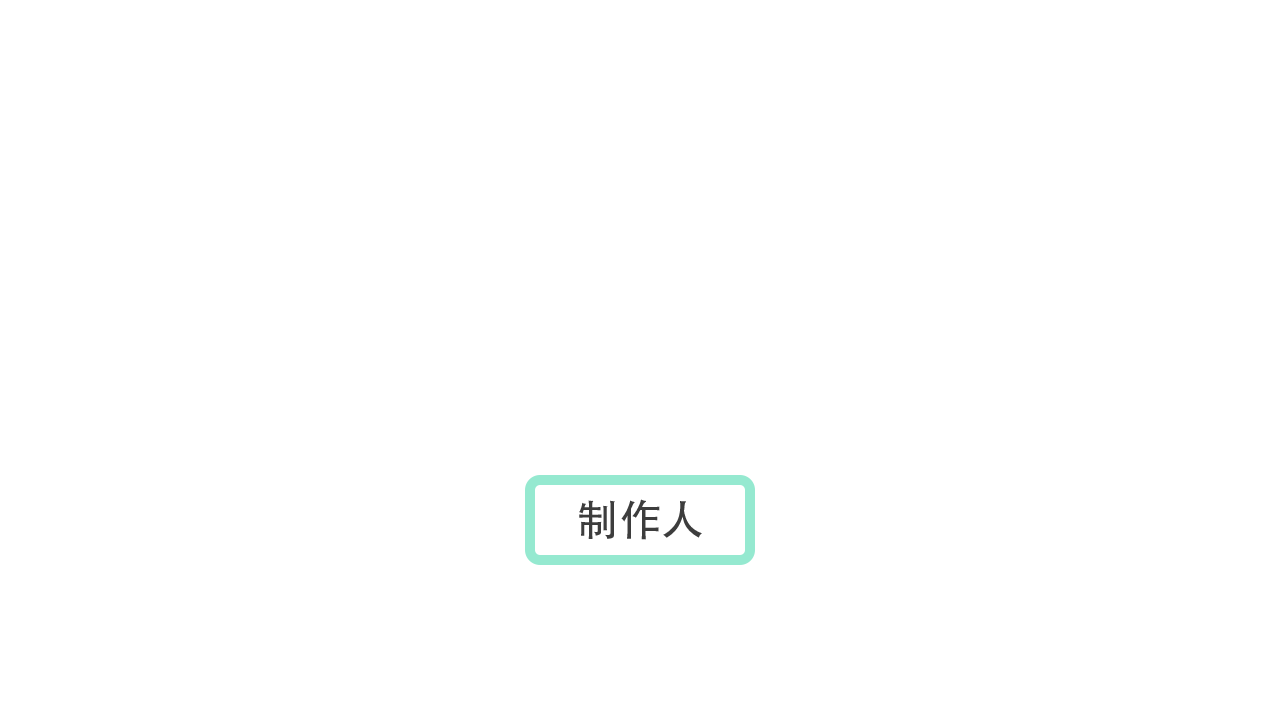
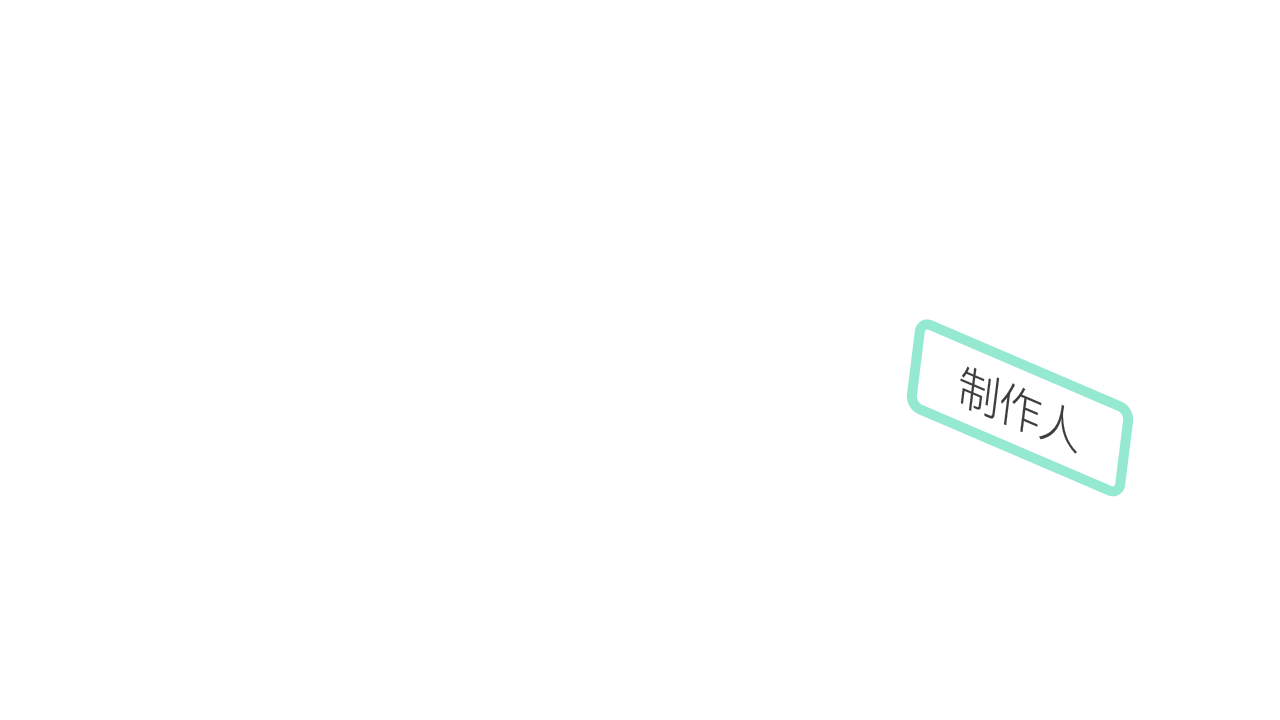
final product

Changed region(s): [[0.6875, 0.4278, 0.9062, 0.7028], [0.4062, 0.6417, 0.5938, 0.7944]]

diff --git a/scenes/start_screen.py b/scenes/start_screen.py
@@ -20,8 +20,8 @@ class StartScreen(Scene):
         self.credits = pygame.transform.scale(self.credits,(SCREEN_WIDTH,SCREEN_HEIGHT))
         
         #按钮区域
-        self.btn_start = pygame.Rect(SCREEN_WIDTH // 2 - 110, 370, 220, 80)
-        self.btn_credits = pygame.Rect(SCREEN_WIDTH // 2 - 110, 480, 220, 80)
+        self.btn_start = pygame.Rect(953, 240, 163, 105)
+        self.btn_credits = pygame.Rect(960, 366, 117, 88)
 
     def on_enter(self): 
         print("🟢 进入 START")
@@ -68,5 +68,5 @@ class StartScreen(Scene):
         screen.blit(self.background, (0, 0))
         screen.blit(self.startgame, (0, 0))
         screen.blit(self.credits, (0, 0))
-        pygame.draw.rect(self.screen, COLORS["white"], self.btn_start, border_radius=10, width=1)
-        pygame.draw.rect(self.screen, COLORS["white"], self.btn_credits, border_radius=10, width=1)
+        # pygame.draw.rect(self.screen, COLORS["white"], self.btn_start, border_radius=10, width=0)
+        # pygame.draw.rect(self.screen, COLORS["white"], self.btn_credits, border_radius=10, width=0)

diff --git a/scenes/game_screen.py b/scenes/game_screen.py
@@ -152,7 +152,7 @@ class GameScreen(Scene):
         # 游戏结束状态下：任意 CONFIRM 或点击 → 返回大厅
         if self.game_over_flag:
             if "CONFIRM" in input_state["context"] or pygame.mouse.get_pressed()[0]:
-                return "LOBBY"
+                return "START"
             return None
 
         # 正常游戏：方向输入
@@ -357,7 +357,7 @@ class GameScreen(Scene):
 
         # 提示文字
         stats = self.stats.get_all_stats()
-        hint_text = self.score_font.render(
+        hint_text = self.score_font_over.render(
             f"最终得分：{stats['score']}  最大连击：{stats['max_combo']} — 按任意键返回大厅",
             True, (200, 200, 200),
         )

diff --git a/entities/npc/navigation/obstacle_avoidance.py b/entities/npc/navigation/obstacle_avoidance.py
@@ -92,7 +92,7 @@ class ObstacleAvoidance:
         head: tuple[int, int],
         direction: tuple[int, int],
         collision_mgr: 'CollisionManager',
-        steps: int = None,
+        steps: Optional[int] = None,
     ) -> int:
         """
         前瞻检测：沿 direction 方向，连续多少格是畅通的。

diff --git a/scenes/loading_screen.py b/scenes/loading_screen.py
@@ -18,7 +18,7 @@ class LoadingScreen(Scene):
 
     def on_enter(self):
         print("🟢 进入 LOAD")
-        self._wait_ms = int(random.uniform(0.0, 1.0) * 1000)
+        self._wait_ms = int(random.uniform(0.0, 3.0) * 1000)
         self._start_tick = pygame.time.get_ticks()
 
     def on_exit(self):

diff --git a/README.md b/README.md
@@ -1,47 +1,247 @@
-# GluttonousSnake_pygame-ce
-这是一个基于Python语言的贪吃蛇
-<br><br><br>
-当前版本Ver2.0项目的目录结构
-```text
-GluttonousSnake_pygame-ce/
-│
-├── main.py              # 🚪 游戏入口：只做初始化、主循环、状态切换
-├── scene_manager.py     # 场景管理器（核心）
-├── input_manager.py     # 输入中枢（核心）
-├── quit_overlay.py      # 退出确认覆盖层
-├── settings.py          # ⚙ 配置中心
-├── assets/              # 🎨 所有资源
-│   ├── images/          #   .png
-│   │   ├── score_boost.png
-│   │   ├── start_bg.png
-│   │   └── ...
-│   ├── sounds/          #   .mp3, .wav
-│   └── fonts/           #   .ttf, .otf
-├── items/               # 🎁 道具系统（v0.6.0 新增）
-│   ├── __init__.py
-│   ├── item_defs.py     # 道具定义表
-│   ├── item_base.py     # 道具实例基类
-│   └── item_manager.py  # 道具管理器
-├── scenes/              # 🎬 游戏场景
-│   ├── __init__.py
-│   ├── registry.py      # 场景工厂注册表
-│   ├── base_scene.py    # 场景基类
-│   ├── start_screen.py  # 开始页
-│   ├── lobby_screen.py  # 大厅页
-│   └── game_screen.py   # 游戏主场景
-├── entities/            # 👾 游戏实体
-│   ├── __init__.py
-│   ├── player.py        # 贪吃蛇
-│   └── enemy.py         # （预留）
-├── utils/               # 🛠 工具模块
-│   ├── __init__.py
-│   ├── stats_manager.py # 统计管理器（v0.6.0 新增）
-│   └── helpers.py
-├── docs/              
-│   ├── CHANGELOG.md
-│   └── CHANGELOG_OLD.md
-│
-└── README.md            # 📝 项目说明
+# 🐍 GluttonousSnake — 贪吃蛇大作战
+
+> 一个基于 **pygame-ce** 构建的现代贪吃蛇游戏，拥有完整的场景系统、道具系统、NPC 蛇 AI 子系统与动态难度机制。
+
+![Python](https://img.shields.io/badge/Python-3.10+-blue?logo=python)
+![pygame-ce](https://img.shields.io/badge/pygame--ce-2.5.7-purple?logo=pygame)
+![版本](https://img.shields.io/badge/版本-v0.8.1-orange)
+![状态](https://img.shields.io/badge/状态-开发完成-brightgreen)
+
+---
+
+## 📖 简介
+
+**GluttonousSnake** 是一个功能丰富的贪吃蛇游戏，从经典玩法出发，逐步扩展出：
+
+- 多种**AI 蛇**同场竞技（觅食、追击、游走、混合策略）
+- 动态**道具系统**（基础食物、稀有移动道具、难度阶段解锁）
+- 智能**权重驱动生成**（根据场上数量、蛇长、分数动态调整）
+- 完整的**游戏流程**（开始→大厅→加载→游戏→制作人员）
+- 平滑的**分数滚动动画**、**连击系统**、**退出覆盖层**
+
+> 项目虽小，"五脏俱全"——从架构设计到细节打磨，尽力做到了力所能及的最好。
+
+---
+
+## ✨ 核心特性
+
+### 🎮 游戏玩法
+| 特性 | 说明 |
+|:---|---|
+| **经典贪吃蛇** | 方向控制、吃食物增长、撞墙/撞己/撞NPC即死 |
+| **分数倍率** | 蛇越长得分越高（`倍率 = 1.0 + (长度−3) × 0.1`） |
+| **连击系统** | 2 秒内连续吃道具触发连击，结算时显示最大连击数 |
+| **分数滚动动画** | 数码管风格 15 位零填充，加分后 2 秒内平滑滚动 |
+| **退出确认覆盖层** | ESC 弹出半透明确认框，支持键盘/鼠标操作 |
+
+### 🧠 NPC 蛇子系统（5 种 AI 类型）
+| 类型 | 颜色 | 行为 | 掉落 |
+|:---|---:|:---|:---:|
+| 🟣 **StandardSnake** 标准蛇 | `#7148ff` | 随机行走 | 无 |
+| 🟪 **ForagingSnake** 觅食蛇 | `#fe22ff` | 贪心接近附近道具 | 3 个食物 |
+| ⚫ **LootSnake** 战利品蛇 | `#22233e` | 混合模式：15% 贪心 + 85% 随机 | 6 个（含稀有） |
+| ⚪ **MythicSnake** 神话蛇 | `#bafffe` | 大范围游走，低转向概率 | 10 个（含稀有） |
+| 🔴 **HunterSnake** 猎手蛇 | `#ff1c50` | BFS 最短路径追击玩家 | 5 个食物 |
+
+- **障碍规避**：所有 NPC 共享前瞻碰撞检测与方向评分系统
+- **渐进式出生**：蛇头先出现，逐步展开至完整长度
+- **死亡掉落**：沿蛇身均匀分布掉落道具，稀有道具受场上上限约束
+
+### 🎁 道具系统
+| 道具 | 分类 | 分值 | 特性 |
+|:---|---:|---:|:---|
+| 🍎 **普通食物** `score_boost` | 基础 | 1000 | 最常见，场上最多 30 个 |
+| ✨ **幸运食物** `lucky_patrol_food` | 稀有 | 5000 | 自动在 4×4 区域内随机移动，场上最多 3 个 |
+
+- **动态权重引擎**：场上数量压制、蛇长因子、分数因子共同调节生成概率
+- **3 阶段难度**：前期(基本食物为主)→中期(解锁全部)→后期(障碍/减益权重↑)
+
+### 🏗 架构设计
+| 模块 | 职责 |
+|:---|---|
+| `scene_manager.py` | 场景生命周期管理 + 工厂注册表模式 |
+| `input_manager.py` | 上下文感知的按键映射系统（支持按住时长检测） |
+| `items/` | 道具定义 → 实例化 → 权重生成 → 碰撞处理 |
+| `entities/npc/` | NPC 实体 → 出生管理 → AI 导航 → 碰撞管理 |
+| `utils/stats_manager.py` | 统计数据单一数据源（分数/长度/连击） |
+
+---
+
+## 🚀 快速开始
+
+### 环境要求
+
+- **Python** ≥ 3.10
+- **pygame-ce** ≥ 2.5.7
+
+### 安装
+
+```bash
+# 1. 克隆或进入项目目录
+cd GluttonousSnake_pygame-ce
+
+# 2. （推荐）创建虚拟环境
+python -m venv .venv
+
+# 3. 激活虚拟环境
+# Windows:
+.venv\Scripts\activate
+# macOS / Linux:
+source .venv/bin/activate
+
+# 4. 安装依赖
+pip install -r requirements.txt
 ```
 
-[项目Ver4.0版本更新说明](docs/CHANGELOG.md)
+### 运行
+
+```bash
+python main.py
+```
+
+---
+
+## 🎮 操作说明
+
+| 操作 | 按键 |
+|:---|---|
+| **移动** | ⬆ ⬇ ⬅ ➡ 方向键 |
+| **确认/开始** | `Enter` / `Space` |
+| **退出游戏** | `ESC`（弹出确认框） |
+| **全屏切换** | `F11` |
+| **Credits 退出** | 长按 `R` 键 2.5 秒 |
+| **鼠标** | 开始/制作人按钮点击、退出覆盖层点击 |
+
+---
+
+## 📁 项目结构
+
+```
+GluttonousSnake_pygame-ce/
+├── main.py                  # 🚪 游戏入口
+├── scene_manager.py         # 🎬 场景管理器（核心）
+├── input_manager.py         # ⌨ 输入中枢（核心）
+├── quit_overlay.py          # 🚪 退出确认覆盖层
+├── settings.py              # ⚙ 配置中心
+│
+├── assets/                  # 🎨 资源文件
+│   ├── images/              #   .png 图片
+│   ├── sounds/              #   .mp3, .wav 音效
+│   ├── media/               #   .mp4 视频
+│   └── fonts/               #   .ttf, .otf 字体
+│
+├── scenes/                  # 🎬 游戏场景
+│   ├── base_scene.py        #     场景基类
+│   ├── registry.py          #     工厂注册表
+│   ├── start_screen.py      #     开始界面
+│   ├── lobby_screen.py      #     大厅界面
+│   ├── loading_screen.py    #     加载过渡
+│   ├── game_screen.py       #     🎯 游戏主场景
+│   └── credits_scene.py     #     制作人员名单
+│
+├── entities/                # 👾 游戏实体
+│   ├── player.py            #     玩家贪吃蛇
+│   └── npc/                 #     🤖 NPC 子系统
+│       ├── npc_types.py     #       类型定义（5种）
+│       ├── npc_base.py      #       NPC蛇实体基类
+│       ├── spawn_manager.py #       出生管理器
+│       ├── collision_manager.py #   碰撞管理器
+│       ├── npc_manager.py   #       管理器总控
+│       └── navigation/      #       🧭 导航策略
+│           ├── base_strategy.py
+│           ├── obstacle_avoidance.py # 障碍规避
+│           ├── random_walk.py        # 随机行走
+│           ├── greedy_item.py        # 贪心道具
+│           ├── chase_player.py       # BFS追击
+│           ├── wander.py             # 游走
+│           └── hybrid.py             # 混合模式
+│
+├── items/                   # 🎁 道具系统
+│   ├── item_defs.py         #     道具定义表
+│   ├── item_base.py         #     道具实例基类
+│   ├── item_manager.py      #     道具管理器
+│   ├── difficulty_phases.py #     📊 难度阶段
+│   └── weight_calculator.py #     ⚖ 动态权重引擎
+│
+├── utils/                   # 🛠 工具模块
+│   ├── helpers.py           #     12方向向量 + 工具函数
+│   ├── stats_manager.py     #     📈 统计管理器
+│   └── video_player.py      #     🎬 视频播放器
+│
+└── docs/
+    ├── CHANGELOG.md          # 📋 更新日志
+    └── CHANGELOG_OLD.md
+```
+
+---
+
+## 🧭 游戏流程
+
+```
+START ──→ LOBBY ──→ LOAD ──→ GAME
+  │                              │
+  └── CREDITS ←──────────────────┘
+       （视频播放 + 长按R退出）
+```
+
+1. **START** — 开始界面，选择「开始游戏」或「制作人」
+2. **LOBBY** — 大厅，点击「开始游戏」
+3. **LOAD** — 加载过渡（随机 3~5 秒），自动进入游戏
+4. **GAME** — 🎯 游戏主场景，操控贪吃蛇吃食物、躲避 NPC 蛇
+5. **CREDITS** — 播放制作人员视频，鼠标移动显示跳过提示，长按 R 退出
+
+---
+
+## 🧩 技术栈
+
+| 技术 | 用途 |
+|:---|---|
+| **Python 3.10+** | 编程语言 |
+| **pygame-ce 2.5.7** | 游戏框架（社区版，pygame 的现代化分支） |
+| **BFS 寻路** | HunterSnake 追击玩家的路径规划 |
+| **Lerp 插值** | 分数滚动动画平滑过渡 |
+| **轮盘赌算法** | 道具加权随机生成 |
+| **工厂 + 注册表模式** | 场景动态创建与扩展 |
+
+---
+
+## ⚠ 已知不足 / 未来方向
+
+> 项目主体已完成，以下为开发过程中识别但未解决的改进项，留作备忘供后续参考：
+
+- **道具系统不完善** — 目前只注册了 2 种道具（基础食物 + 幸运食物），`CAT_BUFF`/`CAT_DEBUFF`/`CAT_OBSTACLE` 分类尚未实现具体功能（加速/减速/障碍物/清场等）
+- **NPC 设计不合理** — 5 种 NPC 的行为差异化不够明显，部分参数未充分调优
+- **Buff 系统缺失** — 蛇的时效性效果管理未实现，无法支持增益/减益状态
+- **道具拾取反馈** — 缺少拾取音效与视觉特效
+- **音效资源** — 部分音效文件可能不完整或未测试
+- **平衡性** — NPC 出生频率、道具权重、分数倍率等参数未经充分游戏测试
+
+---
+
+## 📜 更新历史
+
+各版本的详细变更记录请参见 [`docs/CHANGELOG.md`](docs/CHANGELOG.md)。
+
+| 版本 | 日期 | 亮点 |
+|:---|---:|:---|
+| v0.8.1 | 2026-06-17 | 🎬 Credits 交互增强、Loading 过渡、分数滚动动画、帧框架场景切换 |
+| v0.8.0 | 2026-06-07 | 🤖 NPC 蛇子系统完整交付（5种 AI + 导航策略 + 碰撞管理 + 死亡掉落） |
+| v0.7.0 | 2026-06-07 | ⚖ 动态权重系统、难度阶段、可移动道具子系统 |
+| v0.6.0 | 2026-06-03 | 🎁 道具系统基础设施、统计管理器 |
+| v0.5.0 | 2024-05-25 | 🚪 退出确认覆盖层、鼠标事件支持 |
+| v0.4.0 | 2024-05-22 | 🏗 场景工厂模式重构 |
+
+---
+
+## 📄 许可证
+
+本项目仅供学习交流使用。
+
+---
+
+## 🙏 致谢
+
+- [pygame-ce](https://github.com/pygame-community/pygame-ce) — 社区驱动的 pygame 分支
+- [Smiley Sans](https://github.com/atelier-anchor/Smiley-Sans) — 字体
+- [DS-Digital](https://www.dafont.com/ds-digital.font) — 数码管字体
+- [Keep a Changelog](https://keepachangelog.com/) — 更新日志格式规范
